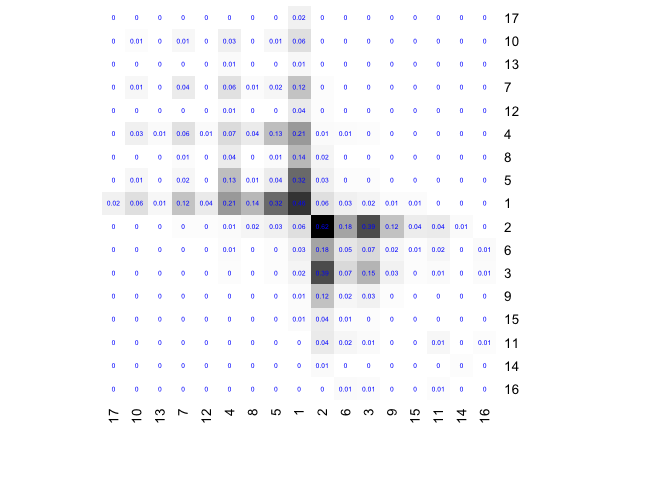
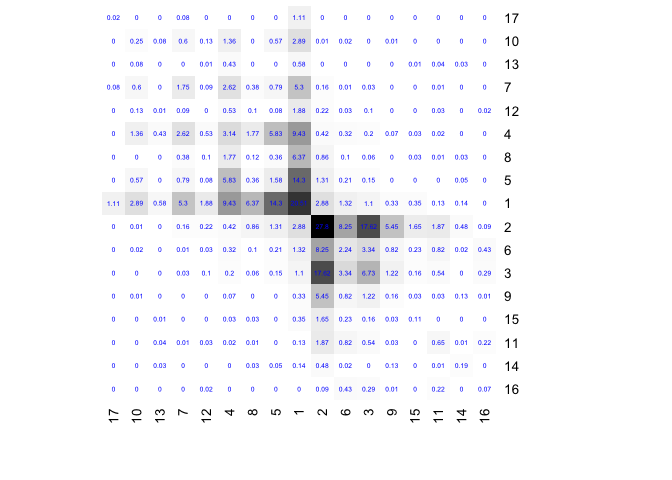
Fix R-CMD-CHECK issue [#25]

diff --git a/README.md b/README.md
@@ -11,13 +11,11 @@
 The goal of *nethist* is to estimate graphons by *network histogram*
 (Wolfe and Olhede 2013; Olhede and Wolfe 2014). It also provides extra
 tools for summary violin plot for networks (Maugis, Olhede, and Wolfe
-2017) and visualizing network histogram.
+2017) and visualizing network histogram. Use undirected and simple
+graphs with no self-loops (either igraph or matrix) as inputs for the
+functions in this package.
 
-*nethist()* is an *RcppArmadillo* (Eddelbuettel and Sanderson 2014)
-implementation of the original MATLAB code in Olhede and Wolfe (2014).
 To install the package from source, you need C++ and Fortran compilers.
-Use undirected and simple graphs with no self-loops (either igraph or
-matrix) as inputs for the functions in this package.
 
 ## Installation
 
@@ -110,21 +108,11 @@ violin_netsummary(polblog, max_cycle_order = 7)
 
 <div id="refs" class="references csl-bib-body hanging-indent">
 
-<div id="ref-RcppArmadillo" class="csl-entry">
-
-Eddelbuettel, Dirk, and Conrad Sanderson. 2014. “RcppArmadillo:
-Accelerating r with High-Performance c++ Linear Algebra.” *Computational
-Statistics and Data Analysis* 71: 1054–63.
-<http://dx.doi.org/10.1016/j.csda.2013.02.005>.
-
-</div>
-
 <div id="ref-maugis2017Topology" class="csl-entry">
 
 Maugis, Pierre-André G., Sofia C. Olhede, and Patrick J. Wolfe. 2017.
 “Topology Reveals Universal Features for Network Comparison.”
-*arXiv:1705.05677 \[Cs, Math, Stat\]*, May.
-<http://arxiv.org/abs/1705.05677>.
+*arXiv:1705.05677*, May. <http://arxiv.org/abs/1705.05677>.
 
 </div>
 
@@ -140,7 +128,7 @@ Academy of Sciences* 111 (41): 14722–27.
 <div id="ref-wolfe2013Nonparametric" class="csl-entry">
 
 Wolfe, Patrick J., and Sofia C. Olhede. 2013. “Nonparametric Graphon
-Estimation.” *arXiv:1309.5936 \[Math, Stat\]*, September.
+Estimation.” *arXiv:1309.5936*, September.
 <http://arxiv.org/abs/1309.5936>.
 
 </div>

diff --git a/NEWS.md b/NEWS.md
@@ -1,3 +1,10 @@
+# nethist 0.2.3
+
+update: 2023/03/15
+ 
+-  Documentation updates
+-  Internal functions (not visible to users)
+
 # nethist 0.2.2
 
 update: 2022/12/08
